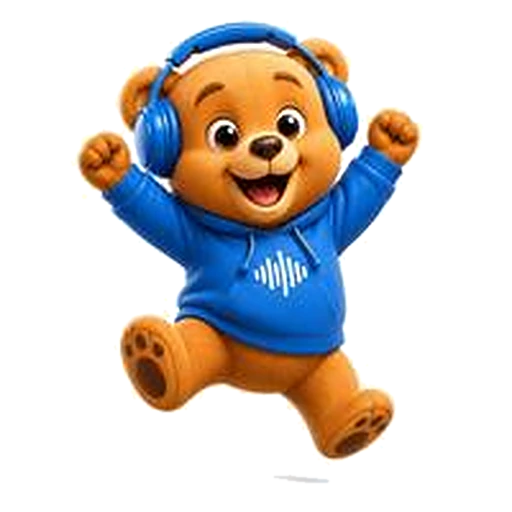
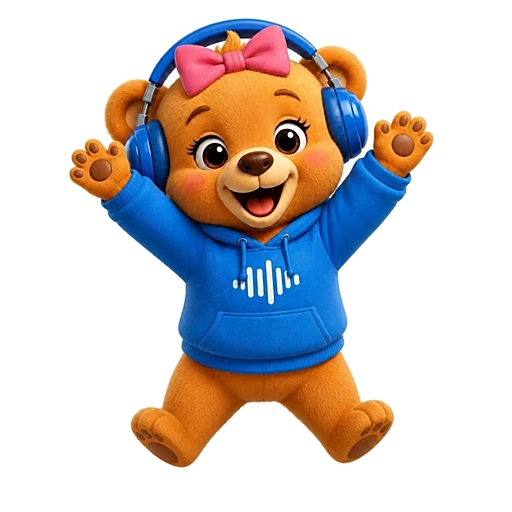
گوشیار دختر شد: چهار ژست تازه (Canva) و آیکون برنامه؛ ژست لایک موقتاً قرینهی دستتکاندادن
Claude-Session: https://claude.ai/code/session_01PLxCJkbjDqwwx5gYhwRCb4

diff --git a/MIGRATION.md b/MIGRATION.md
@@ -134,3 +134,11 @@
 گربه، خرگوش، پرنده، شیر، طبل، زنگوله، موشک، فلوت، باد، و مکانهای جنگل، غار، رودخانه، خانه و شهر
 (بریدههای کموضوح از اینفوگرافیک مرجع). prompt هرکدام در `tools/legacy_android/art_queue.json` و
 `art/art_manifest.json` موجود است.
+
+## بهروزرسانی: گوشیار دختر شد
+
+- چهار ژست تازه با Canva از روی ژست قبلی ساخته شد تا شخصیت یکدست بماند: نارنجی، پاپیون صورتی، هدفون و هودی آبی.
+  شناسههای Canva: wave `MAHX-yEFPJo`، listening `MAHX-z7-Nb8`، celebrate `MAHX-0D_2FI`، think `MAHX-_gzkLA`.
+- ژست «لایک» (cheer) ساخته نشد، چون سهمیهی Canva تمام شد. **فعلاً قرینهی ژست دستتکاندادن جایش است** و باید ساخته شود.
+- آیکون برنامه (`art/app_icon.png` و mipmapها) از ژست تازه ساخته شد.
+- توضیح گوینده در `voice_lines.json` به «خرسِ دخترِ مهربان؛ صدای زنانه» تغییر کرد. گویندهی پیشفرض استودیو (پونه) زن است.
